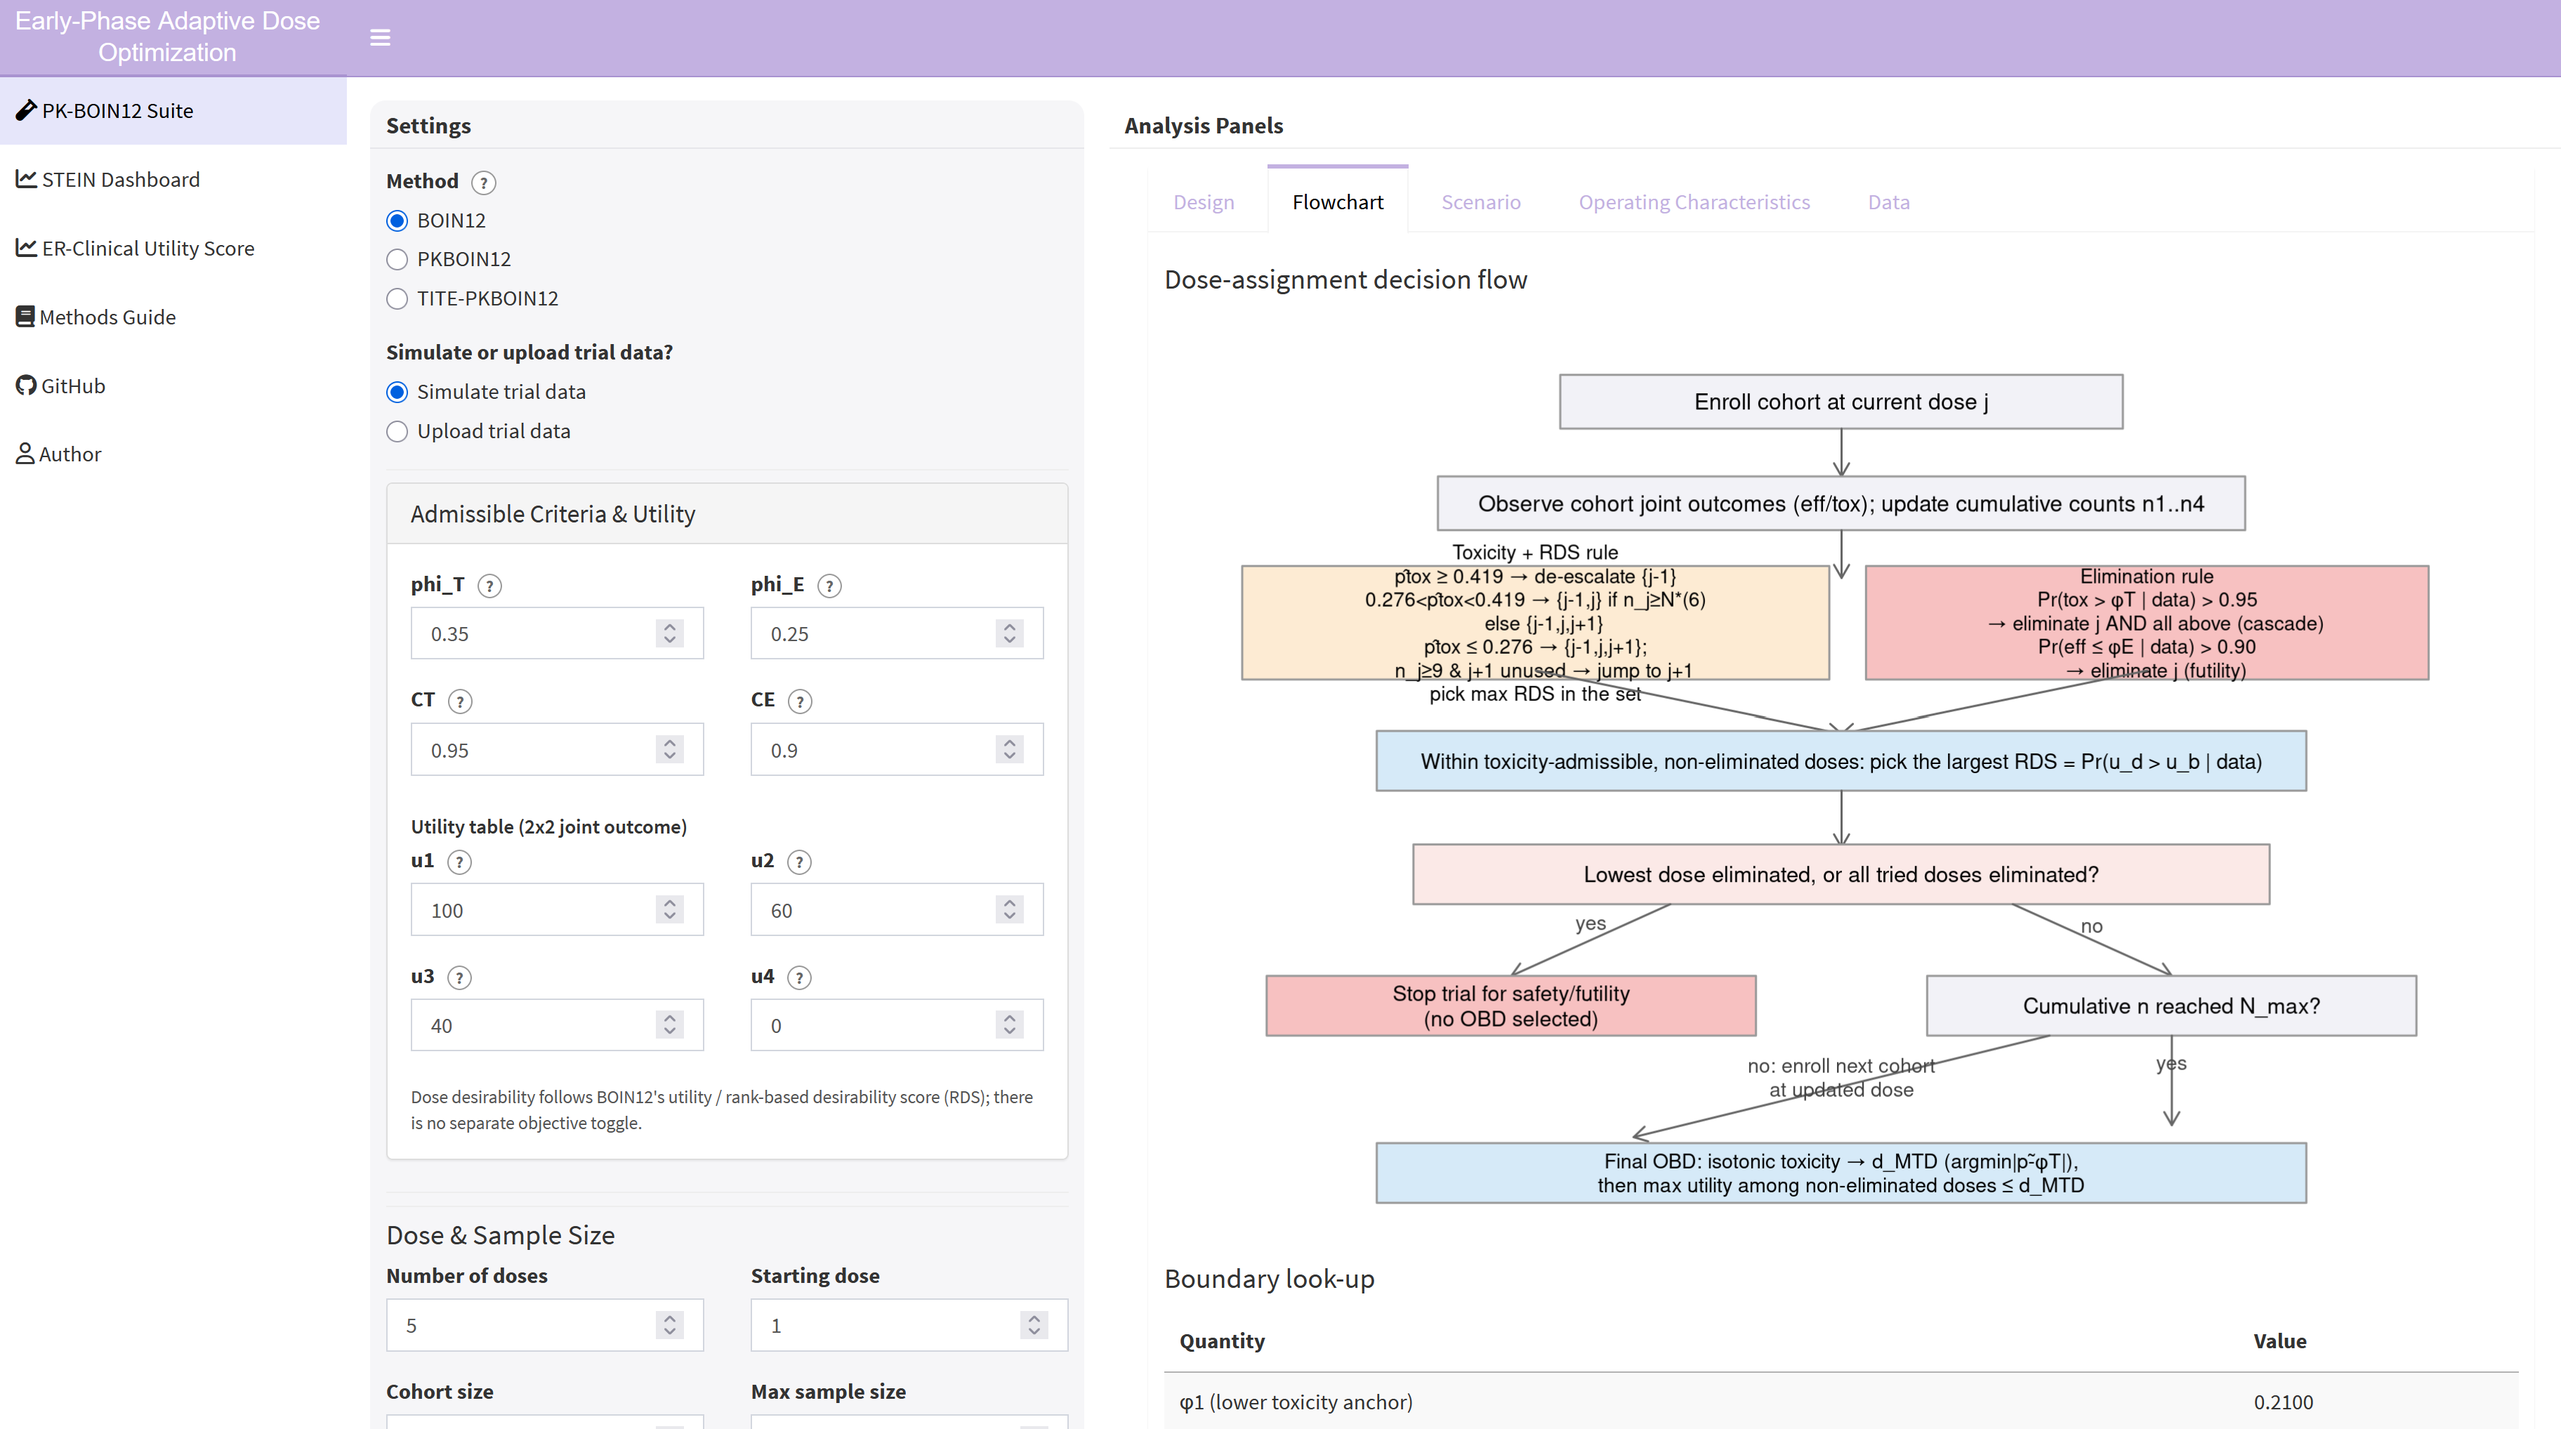
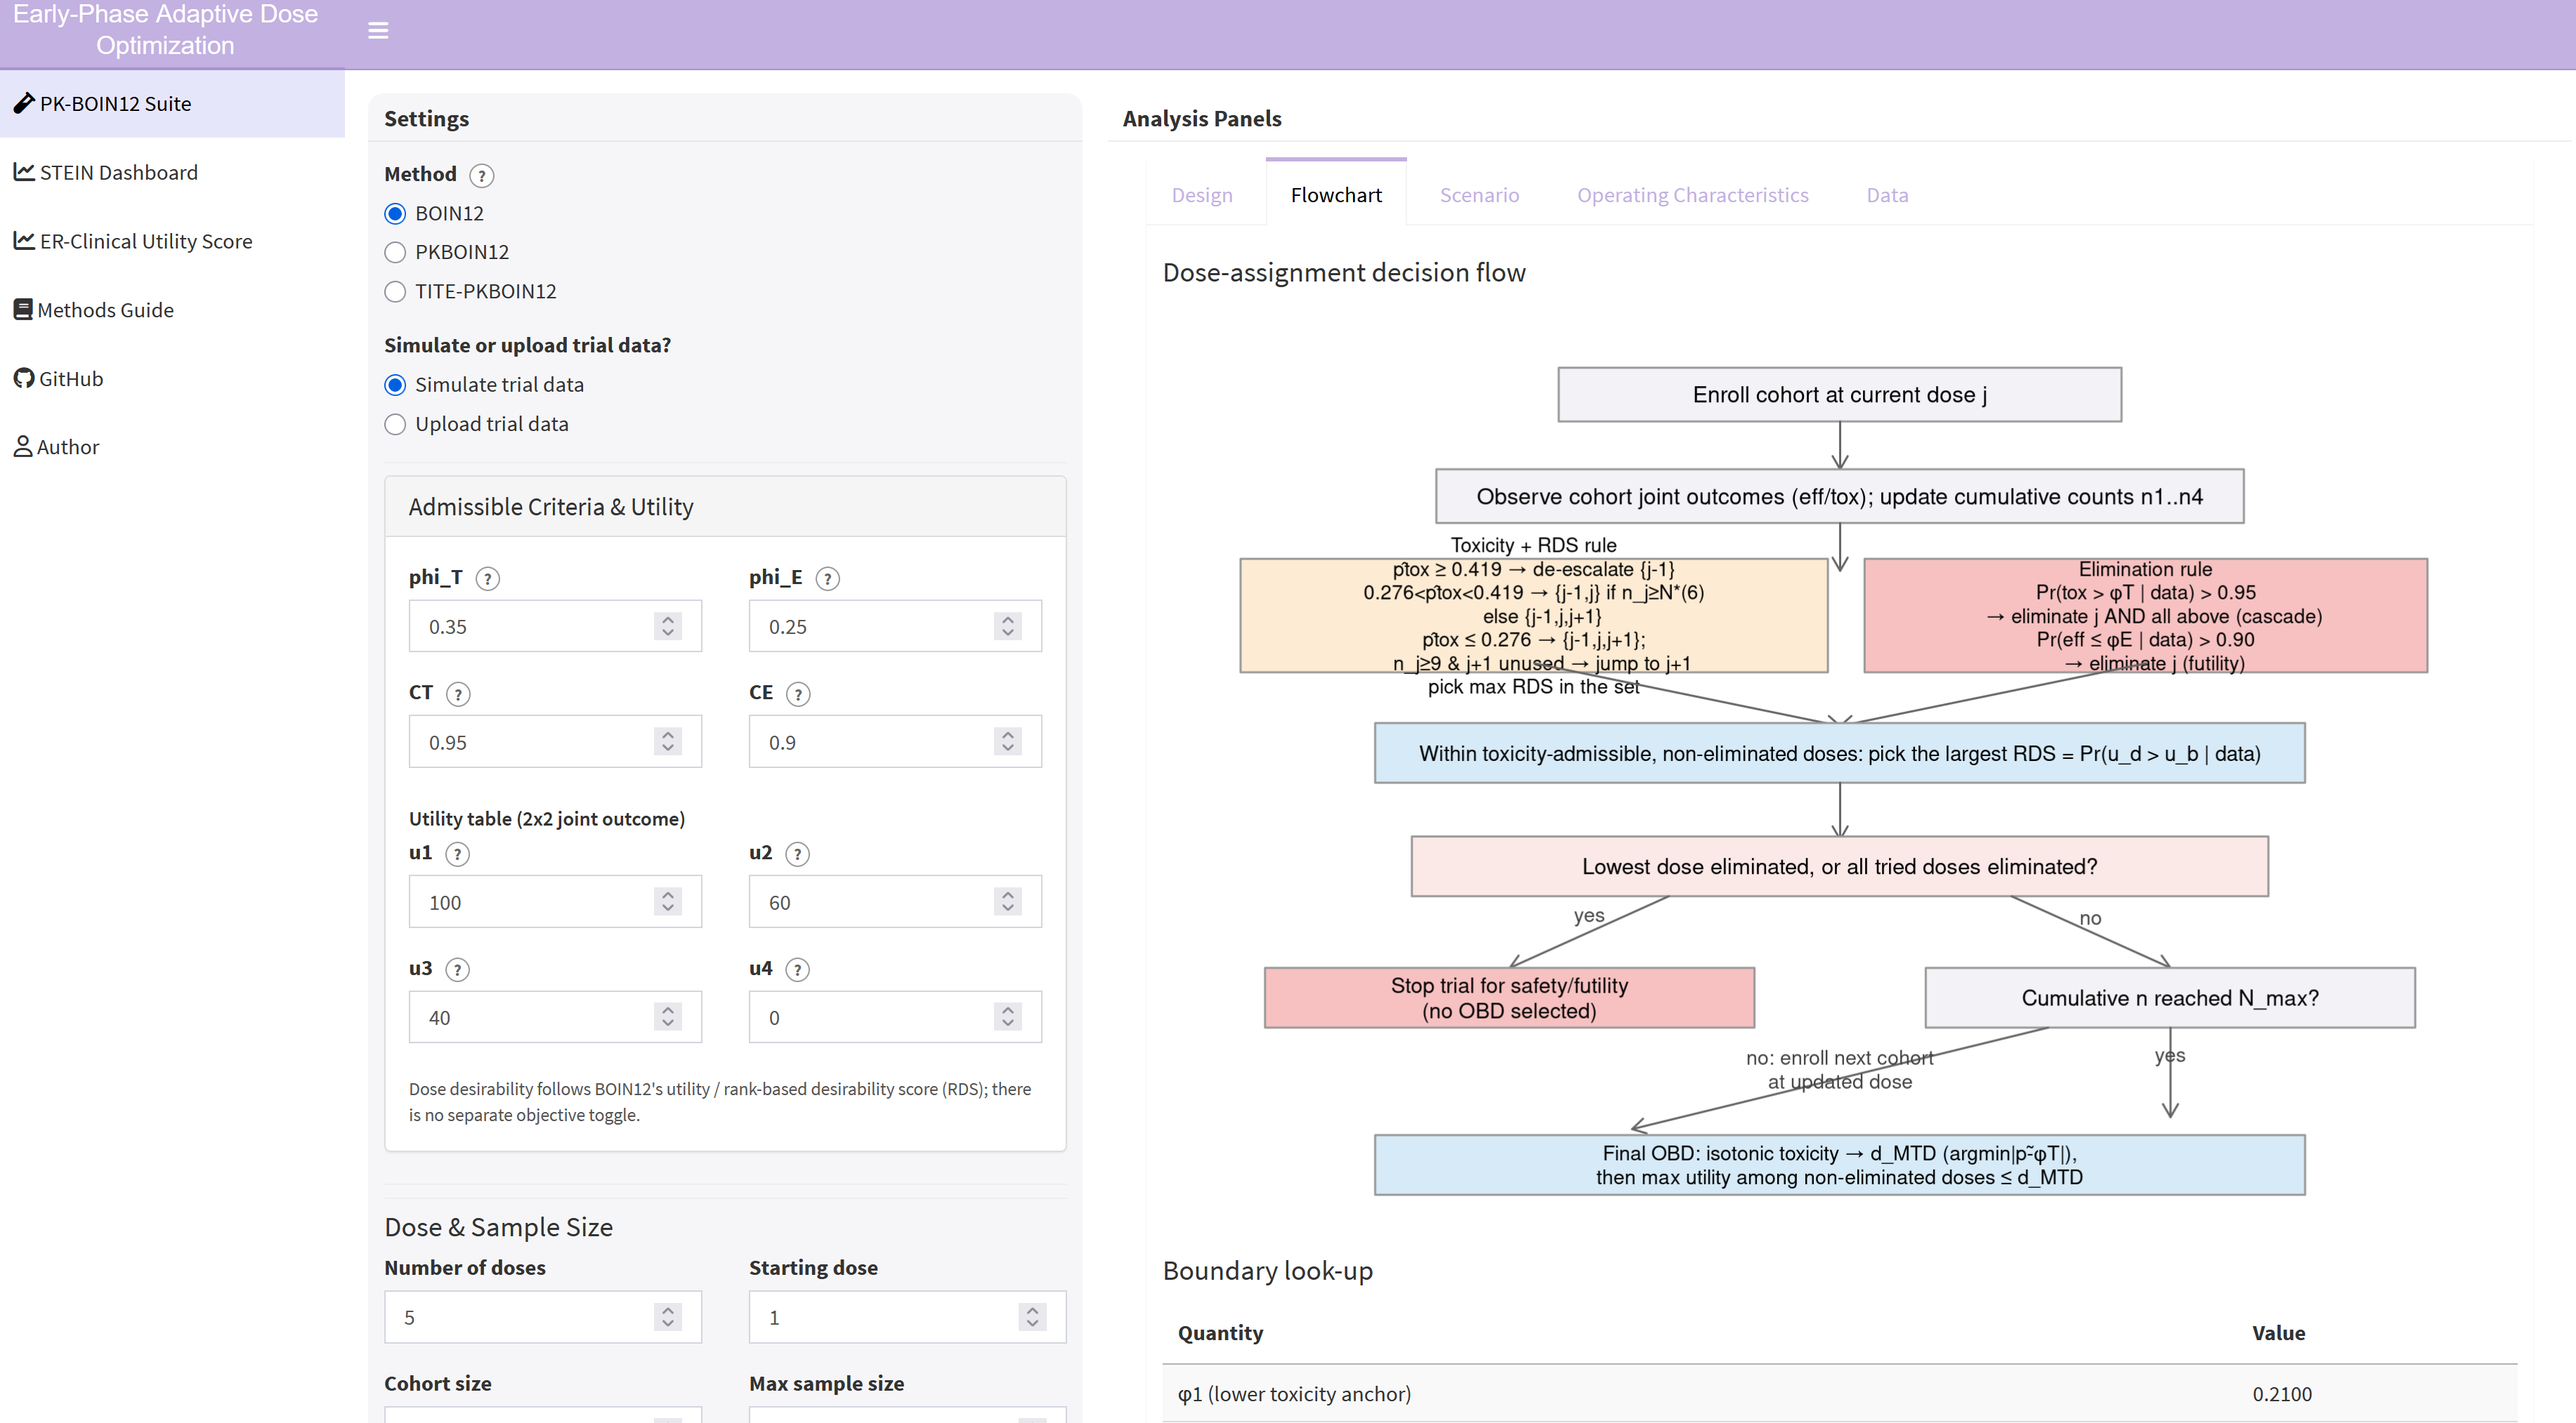
port CSS

diff --git a/layouts/portfolio/list.html b/layouts/portfolio/list.html
@@ -40,7 +40,8 @@
                   Details →
                 </a>
                 <a
-                  class="portfolio-action"
+                  class="portfolio-action portfolio-action--live"
+                  style="color: #A7C7E7;"
                   href="{{ .live_url | safeURL }}"
                   target="_blank"
                   rel="noopener"
